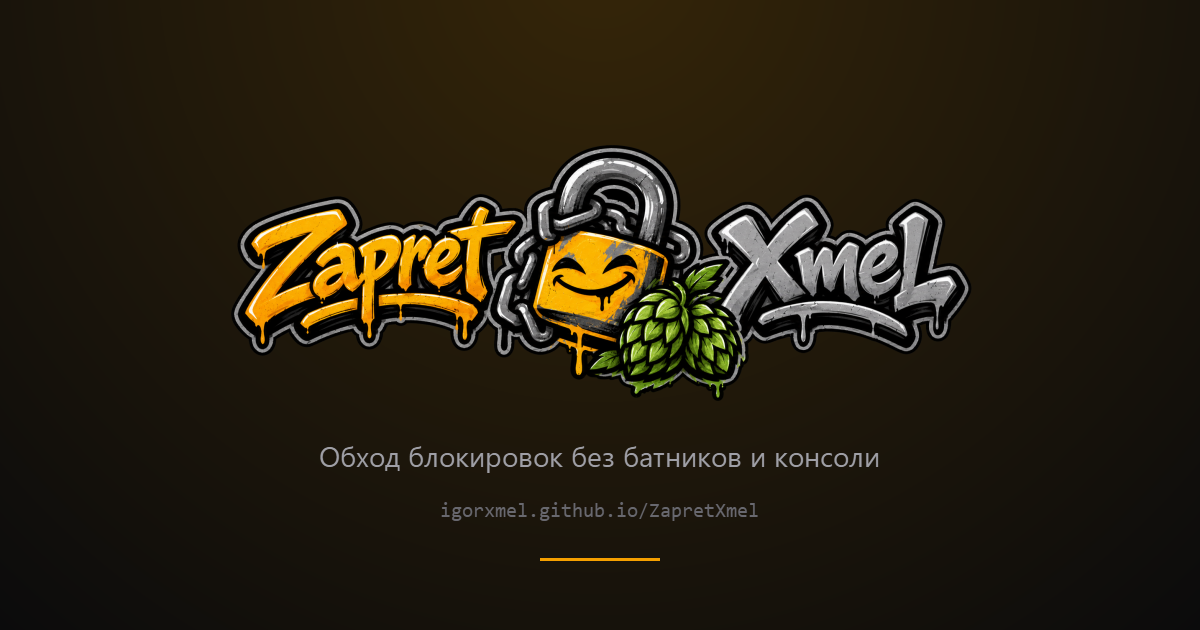
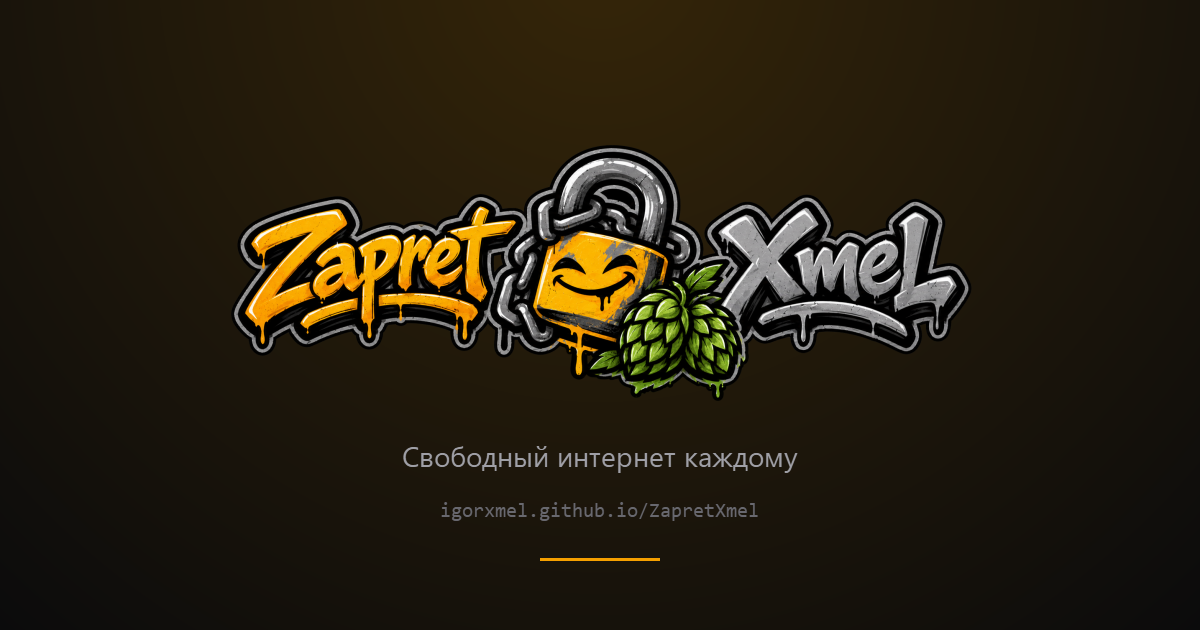
Лозунг на сайте, ссылка на прокси и снимки во весь экран
Под баннером теперь лозунг, а описание ушло строкой ниже — название
программа и так носит на баннере, а зачем она нужна, читается первым.
Та же надпись на карточке для мессенджеров.

Снимок из карусели открывается во весь экран по щелчку: в полосе мелкий
текст интерфейса не прочитать. Подписи отодвинуты от стрелок — они
прижимались к ним вплотную.

В карточке про Telegram появилась ссылка на tg-ws-proxy, он же добавлен в
благодарности README: программа его ставит и обновляет, а упомянут он
был только в таблице «что внутри».

Ссылки на стили и скрипт получили номер версии — Pages отдаёт их с
длинным сроком жизни, и браузер показывал старую страницу после правок.

Changed region(s): [[0.2775, 0.6937, 0.74, 0.754]]

diff --git a/docs/index.html b/docs/index.html
@@ -23,7 +23,7 @@
 <meta name="theme-color" content="#0b0b0c">
 
 <link rel="icon" href="assets/favicon.png" type="image/png">
-<link rel="stylesheet" href="style.css">
+<link rel="stylesheet" href="style.css?v=2">
 
 <!-- Класс ставится до отрисовки: по нему стили прячут блоки, которые
      потом проявит скрипт. Без скрипта всё остаётся видимым. -->
@@ -41,13 +41,15 @@
 <header class="hero" id="top">
   <img class="banner reveal" style="--step: 0" src="assets/banner.png" alt="ZapretXmel" width="560">
 
-  <p class="lead reveal" style="--step: 1">
+  <p class="slogan reveal" style="--step: 1">Свободный интернет каждому</p>
+
+  <p class="lead reveal" style="--step: 2">
     Одно окно вместо батников и консольных меню: обход блокировок, прокси для
     Telegram и подбор стратегии перебором. Чужие инструменты программа ставит
     и обновляет сама — разбираться с ними отдельно не нужно.
   </p>
 
-  <div class="actions reveal" style="--step: 2">
+  <div class="actions reveal" style="--step: 3">
     <a class="button primary" href="https://github.com/igorxmel/ZapretXmel/releases/latest/download/ZapretXmel.exe">
       Скачать для Windows
     </a>
@@ -55,7 +57,7 @@
     <a class="button boosty" id="boosty" href="#" hidden>Поддержать на Boosty</a>
   </div>
 
-  <p class="meta reveal" style="--step: 3" id="meta">Windows 10/11 · 64 бита · без установки</p>
+  <p class="meta reveal" style="--step: 4" id="meta">Windows 10/11 · 64 бита · без установки</p>
 </header>
 
 <main>
@@ -116,7 +118,8 @@
     <h3>Telegram через прокси</h3>
     <p>
       Клиент Telegram стратегии не чинят — его чинит отдельный локальный
-      MTProto-прокси. Ставится из программы, настроек не требует.
+      прокси <a href="https://github.com/Flowseal/tg-ws-proxy">tg-ws-proxy</a>.
+      Программа ставит и обновляет его сама, настроек он не требует.
     </p>
   </article>
 
@@ -196,6 +199,13 @@
   </p>
 </footer>
 
-<script src="site.js"></script>
+<!-- Снимок во весь экран. Разметка здесь, а не в скрипте: без JS она
+     просто не показывается, и страница от этого не ломается. -->
+<div class="lightbox" id="lightbox" hidden>
+  <button class="lightbox-close" id="lightbox-close" type="button" aria-label="Закрыть">×</button>
+  <img id="lightbox-image" alt="">
+</div>
+
+<script src="site.js?v=2"></script>
 </body>
 </html>

diff --git a/docs/style.css b/docs/style.css
@@ -137,9 +137,18 @@ code {
   filter: drop-shadow(0 24px 60px rgba(245, 160, 0, 0.14));
 }
 
+.slogan {
+  margin: 22px 0 0;
+  font-family: var(--display);
+  font-size: 30px;
+  font-weight: 600;
+  letter-spacing: 0.02em;
+  color: var(--text);
+}
+
 .lead {
   max-width: 640px;
-  margin: 24px auto 0;
+  margin: 14px auto 0;
   color: var(--text-dim);
   font-size: 18px;
 }
@@ -262,10 +271,11 @@ p { margin: 0 0 12px; color: var(--text-dim); }
   border: 1px solid var(--border);
   border-radius: var(--radius);
   box-shadow: 0 30px 70px rgba(0, 0, 0, 0.55);
+  cursor: zoom-in;
 }
 
 .frame figcaption {
-  margin-top: 16px;
+  margin-top: 20px;
   color: var(--text-muted);
   font-family: var(--mono);
   font-size: 13px;
@@ -277,7 +287,7 @@ p { margin: 0 0 12px; color: var(--text-dim); }
   align-items: center;
   justify-content: center;
   gap: 16px;
-  margin-top: 18px;
+  margin-top: 26px;
 }
 
 .arrow {
@@ -441,6 +451,7 @@ footer p { margin: 0 0 10px; }
 @media (max-width: 640px) {
   body { padding: 0 16px 56px; }
   .hero { padding: 64px 0 40px; }
+  .slogan { font-size: 24px; }
   .lead { font-size: 16px; }
   .button { flex: 1 1 100%; text-align: center; }
   .bar { padding: 8px 16px; }
@@ -449,4 +460,53 @@ footer p { margin: 0 0 10px; }
   .honest blockquote { font-size: 18px; }
   section { margin-top: 64px; }
   h2 { font-size: 22px; }
+}
+
+/* --- снимок во весь экран --------------------------------------------- */
+
+/* Экраны программы — главное, что есть показать на странице, а в полосе
+   карусели мелкий текст не прочитать. */
+.lightbox {
+  position: fixed;
+  inset: 0;
+  z-index: 20;
+  display: flex;
+  align-items: center;
+  justify-content: center;
+  padding: 40px;
+  background: rgba(5, 5, 6, 0.94);
+  backdrop-filter: blur(6px);
+  cursor: zoom-out;
+}
+
+.lightbox[hidden] { display: none; }
+
+.lightbox img {
+  max-width: 100%;
+  max-height: 100%;
+  border: 1px solid var(--border);
+  border-radius: var(--radius);
+  box-shadow: 0 40px 90px rgba(0, 0, 0, 0.6);
+}
+
+.lightbox-close {
+  position: absolute;
+  top: 18px;
+  right: 22px;
+  width: 38px;
+  height: 38px;
+  padding: 0;
+  border: 1px solid var(--border-strong);
+  border-radius: 50%;
+  background: var(--surface);
+  color: var(--text-dim);
+  font-size: 22px;
+  line-height: 1;
+  cursor: pointer;
+}
+
+.lightbox-close:hover { color: var(--text); border-color: var(--text-muted); }
+
+@media (max-width: 640px) {
+  .lightbox { padding: 16px; }
 }

diff --git a/docs/site.js b/docs/site.js
@@ -164,8 +164,40 @@ function setupBar() {
   toggle();
 }
 
+// --- снимок во весь экран ---------------------------------------------
+
+function setupLightbox() {
+  const box = document.getElementById("lightbox");
+  const full = document.getElementById("lightbox-image");
+  const close = document.getElementById("lightbox-close");
+  if (!box || !full) return;
+
+  function open(image) {
+    full.src = image.currentSrc || image.src;
+    full.alt = image.alt;
+    box.hidden = false;
+    close.focus();
+  }
+
+  function hide() {
+    box.hidden = true;
+    // Путь сбрасываем, чтобы следующий снимок не мелькнул предыдущим.
+    full.removeAttribute("src");
+  }
+
+  for (const image of document.querySelectorAll(".frame img")) {
+    image.addEventListener("click", () => open(image));
+  }
+
+  box.addEventListener("click", hide);
+  addEventListener("keydown", (event) => {
+    if (event.key === "Escape" && !box.hidden) hide();
+  });
+}
+
 showBoosty();
 showVersion();
 setupGallery();
 setupReveal();
 setupBar();
+setupLightbox();

diff --git a/tools/make_site_assets.py b/tools/make_site_assets.py
@@ -120,7 +120,7 @@ def social_card(target: Path) -> None:
     painter.drawText(
         QRectF(80, height - 210, width - 160, 70),
         int(Qt.AlignmentFlag.AlignHCenter | Qt.AlignmentFlag.AlignVCenter),
-        "Обход блокировок без батников и консоли",
+        "Свободный интернет каждому",
     )
 
     painter.setPen(QColor(COLORS["text_muted"]))

diff --git a/CLAUDE.md b/CLAUDE.md
@@ -336,6 +336,10 @@ plugin could be initialized», а старый процесс не мог убр
 иначе их пришлось бы править при каждом релизе. Ссылка на скачивание
 постоянная — `releases/latest/download/ZapretXmel.exe`.
 
+Ссылки на `style.css` и `site.js` несут номер версии (`?v=N`): Pages отдаёт
+их с длинным сроком жизни, и без него браузер показывает старую страницу
+после правок. Номер меняется руками вместе с этими файлами.
+
 Картинки готовит `tools/make_site_assets.py --shoot` (на `docs/` ссылаться
 наружу нельзя): он снимает экраны, уменьшает их под страницу и рисует
 карточку `og.png` 1200×630 для ссылок в мессенджерах — баннер для этого не

diff --git a/README.md b/README.md
@@ -128,6 +128,7 @@ Pull request'ы открыты, и мелкие тоже — опечатка в
 - [bol-van/zapret](https://github.com/bol-van/zapret) — движок обхода
 - [Flowseal/zapret-discord-youtube](https://github.com/Flowseal/zapret-discord-youtube) — сборка и стратегии
 - [hyperion-cs/dpi-checkers](https://github.com/hyperion-cs/dpi-checkers) — набор хостов для проверки DPI
+- [Flowseal/tg-ws-proxy](https://github.com/Flowseal/tg-ws-proxy) — прокси, который чинит Telegram
 - [basil00/WinDivert](https://github.com/basil00/WinDivert) — перехват пакетов
 - [Noktomezo/ZapretInteractive](https://github.com/Noktomezo/ZapretInteractive) и
   [medvedeff-true/Zapret-GUI](https://github.com/medvedeff-true/Zapret-GUI) — соседние
